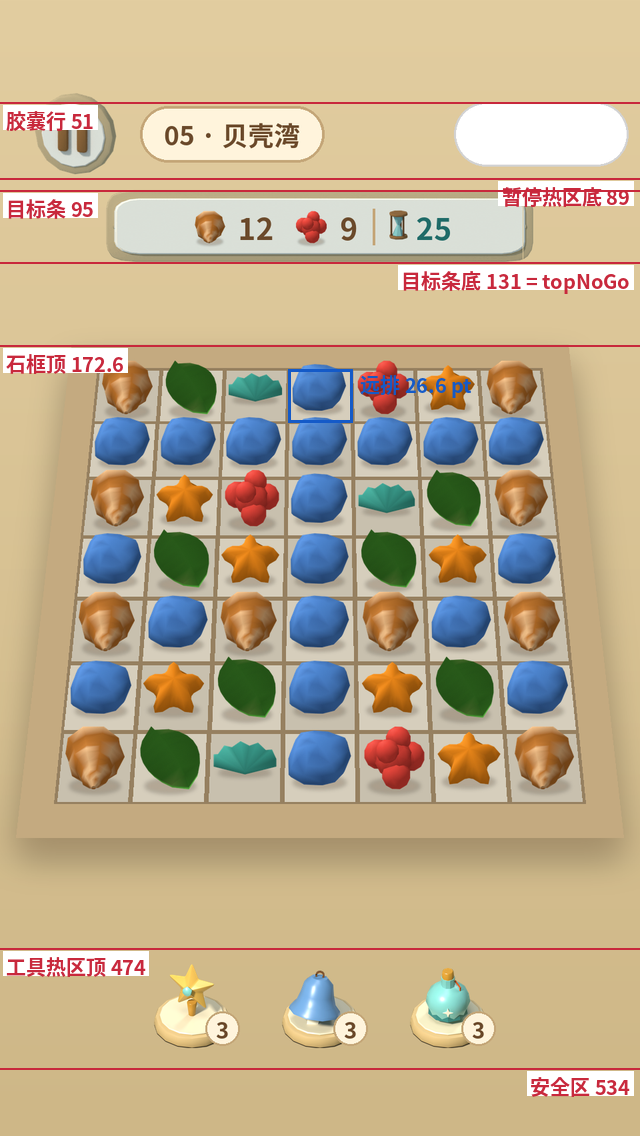
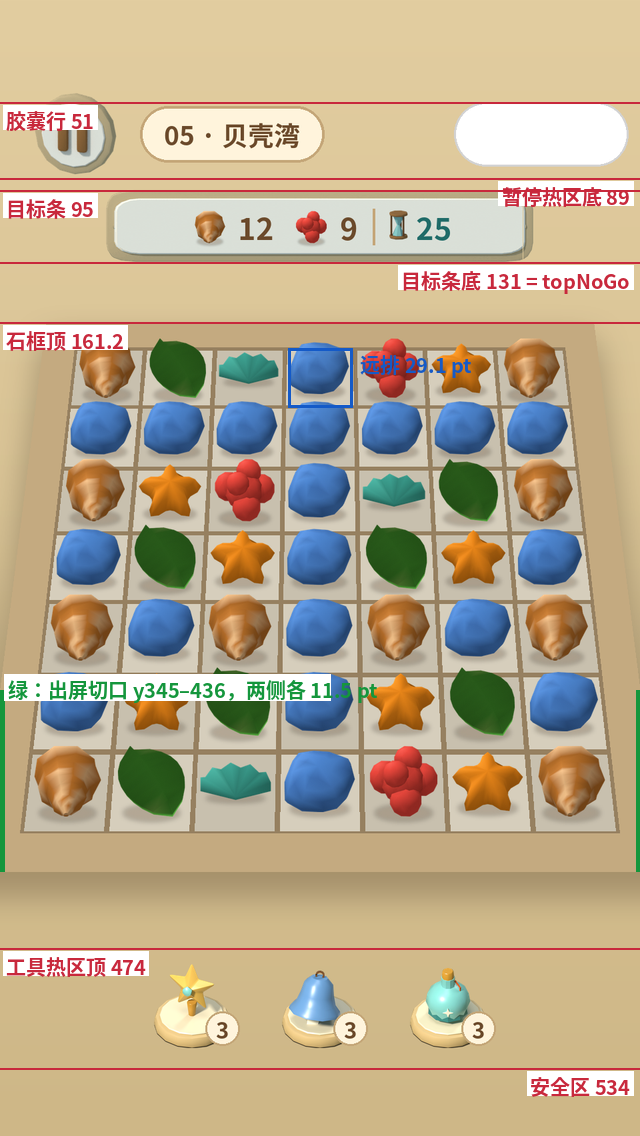
ui-design coast compact HUD r2: embedded-board off-screen rule, 320x568 D 15.97 far row 29.1 pt, cut location note; 390x520 unchanged

diff --git a/ui-design/coast-compact-hud/r2.py b/ui-design/coast-compact-hud/r2.py
@@ -1,0 +1,25 @@
+import sys;sys.path.insert(0,'/tmp');from proj import *
+def solve(w,h,top=131,bot=None):
+    bot=bot or (h-94);D=8.0
+    while True:
+        if proj(w,h,D,0,.15,-3.95)[1]>=top+8 and proj(w,h,D,0,.15,3.95)[1]<=bot-8 and proj(w,h,D,-3.5,.12,3.5)[0]>=8: return D
+        D+=0.001
+def zcross(w,h,D,hx):
+    # z at which edge x=-hx projects to screen x=0 (search)
+    zs=[z/1000 for z in range(-3950,3951)]
+    c=[z for z in zs if proj(w,h,D,-hx,.15,z)[0]<0]; return (min(c),max(c)) if c else None
+for w,h in [(320,568),(390,520)]:
+    D=solve(w,h);fh,fw=farcell(w,h,D)
+    print(w,h,'D',round(D,3),'far',round(fh,1),round(fw,1),'near h',round(proj(w,h,D,0,.12,3.5)[1]-proj(w,h,D,0,.12,2.5)[1],1),
+      'rimtop',round(proj(w,h,D,0,.15,-3.95)[1],1),'rimbot',round(proj(w,h,D,0,.15,3.95)[1],1),
+      'outer near x',round(proj(w,h,D,-3.95,.15,3.95)[0],1),'outer far x',round(proj(w,h,D,-3.95,.15,-3.95)[0],1),
+      'gridnear x',round(proj(w,h,D,-3.5,.12,3.5)[0],1),'cut outer z',zcross(w,h,D,3.95),'cut inner z',zcross(w,h,D,3.49),
+      'cut y', [round(proj(w,h,D,-3.95,.15,z)[1],1) for z in (zcross(w,h,D,3.95) or (0,0))])
+print('---')
+for D in (15.735,15.97):
+    w,h=320,568
+    xs=[x/1000 for x in range(-3950,0)];c=[x for x in xs if proj(w,h,D,x,.15,3.95)[0]<0]
+    zo=zcross(w,h,D,3.95)
+    print(D,'far',[round(v,1) for v in farcell(w,h,D)],'side cut z from',zo[0] if zo else None,'near-edge cut x',max(c) if c else None,
+      'gridnear x',round(proj(w,h,D,-3.5,.12,3.5)[0],1),'outer near x',round(proj(w,h,D,-3.95,.15,3.95)[0],1),'rimtop',round(proj(w,h,D,0,.15,-3.95)[1],1),'rimbot',round(proj(w,h,D,0,.15,3.95)[1],1),
+      'side cut y',round(proj(w,h,D,-3.95,.15,zo[0])[1],1) if zo else None,'near cut y',round(proj(w,h,D,max(c),.15,3.95)[1],1) if c else None)

diff --git a/ui-design/coast-compact-hud/draw.py b/ui-design/coast-compact-hud/draw.py
@@ -71,8 +71,8 @@ def new(w,h,D,show_toast=False):
     tmp=Image.new('RGBA',c.size);ww=goals_row(tmp,ImageDraw.Draw(tmp),0,0,15,22,8,15);goals_row(c,d,w/2-ww/2,113.5,15,22,8,15)
     tools(c,d,w,h-34-34,48,64);return c
 def fin(c): return c.resize((c.width//S*2,c.height//S*2),Image.LANCZOS)
-DS={(320,568):(24.719,17.768),(390,520):(23.003,14.719)}
-for (w,h),(db,da) in DS.items():
+DS={(320,568):(24.719,15.97),(390,520):(23.003,14.719)}
+for (w,h),(db,da) in [i for i in DS.items() if i[0][0]==320]:
     b,a=fin(old(w,h,db)),fin(new(w,h,da));a2=fin(new(w,h,da,True))
     pad=60;W=b.width*3+pad*4;H=b.height+150;cv=Image.new('RGB',(W,H),(250,246,238));dd=ImageDraw.Draw(cv);f=ImageFont.truetype(FB,30)
     for i,(im,lab) in enumerate([(b,'现状'),(a,'紧凑版'),(a2,'紧凑版 · 提示出现时（2 s）')]):
@@ -88,5 +88,11 @@ for (w,h),(db,da) in DS.items():
     rt=proj(w,h,da,0,.15,-3.95)[1];hl(rt,'石框顶 %.1f'%rt)
     fh=proj(w,h,da,0,.12,-2.5)[1]-proj(w,h,da,0,.12,-3.5)[1];y0=proj(w,h,da,0,.12,-3.5)[1]
     ad.rectangle([ (w/2-16)*2,y0*2,(w/2+16)*2,(y0+fh)*2],outline=(20,90,200),width=3);ad.text(((w/2+20)*2,y0*2),'远排 %.1f pt'%fh,font=fa,fill=(20,90,200))
+    if w==320:
+        for sx in (1,-1):
+            ys,yn=proj(w,h,da,-3.95,.15,1.723)[1],proj(w,h,da,-3.686,.15,3.95)[1]
+            X=0 if sx==1 else an.width-1
+            ad.line([(X,ys*2),(X,yn*2)],fill=(20,150,60),width=8)
+        ad.rectangle([4,350*2-26,330,350*2],fill=(255,255,255));ad.text((8,350*2-26),'绿：出屏切口 y345–436，两侧各 11.5 pt',font=fa,fill=(20,150,60))
     an.save(OUT+'annot_%dx%d.png'%(w,h))
 print('ok')
